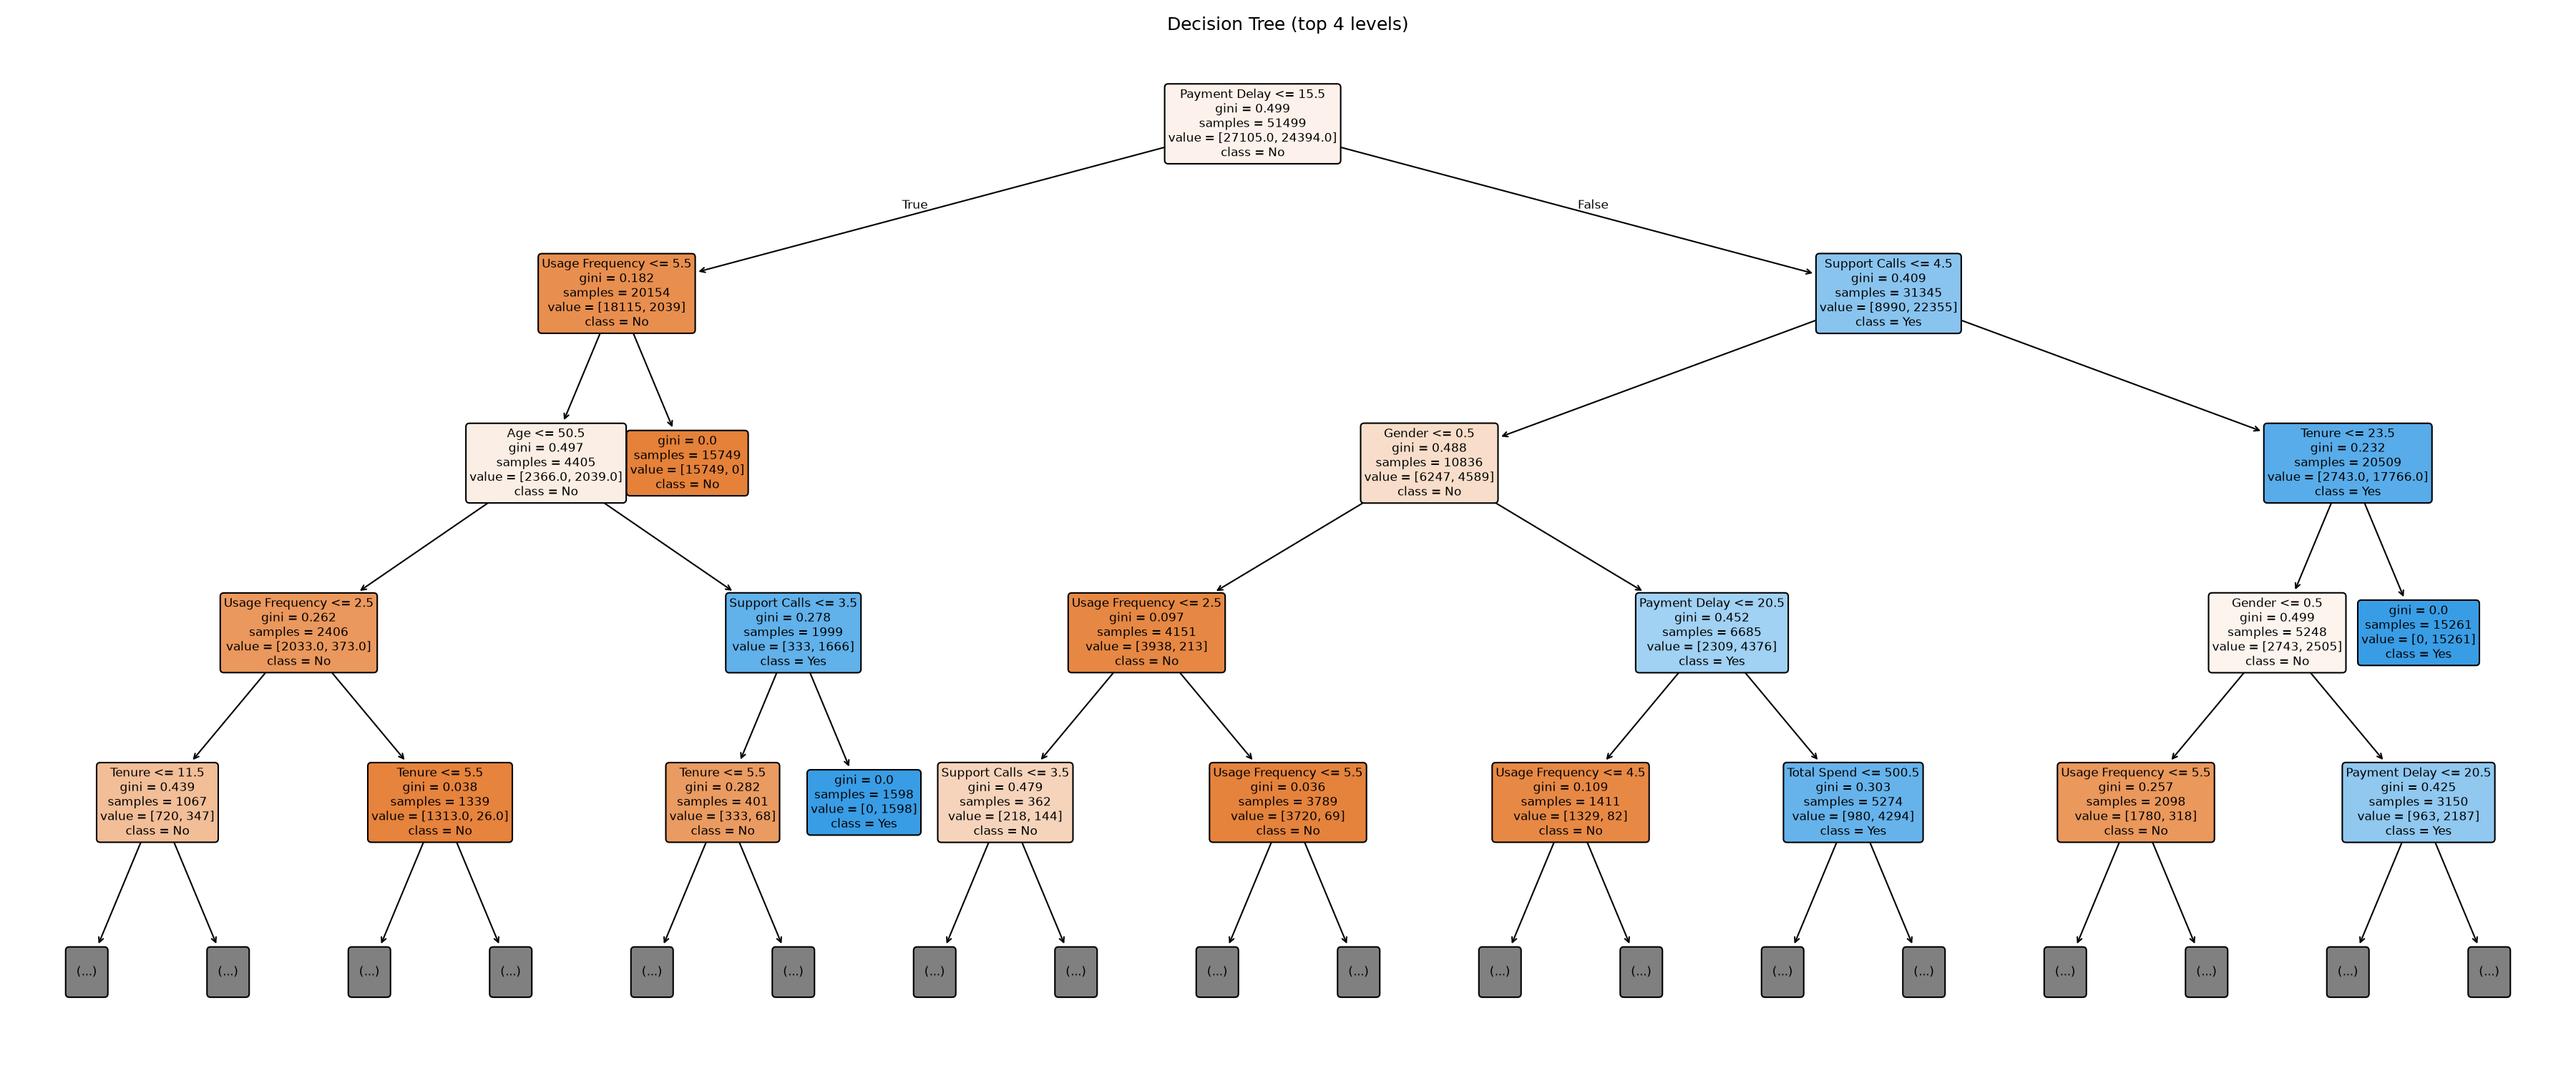
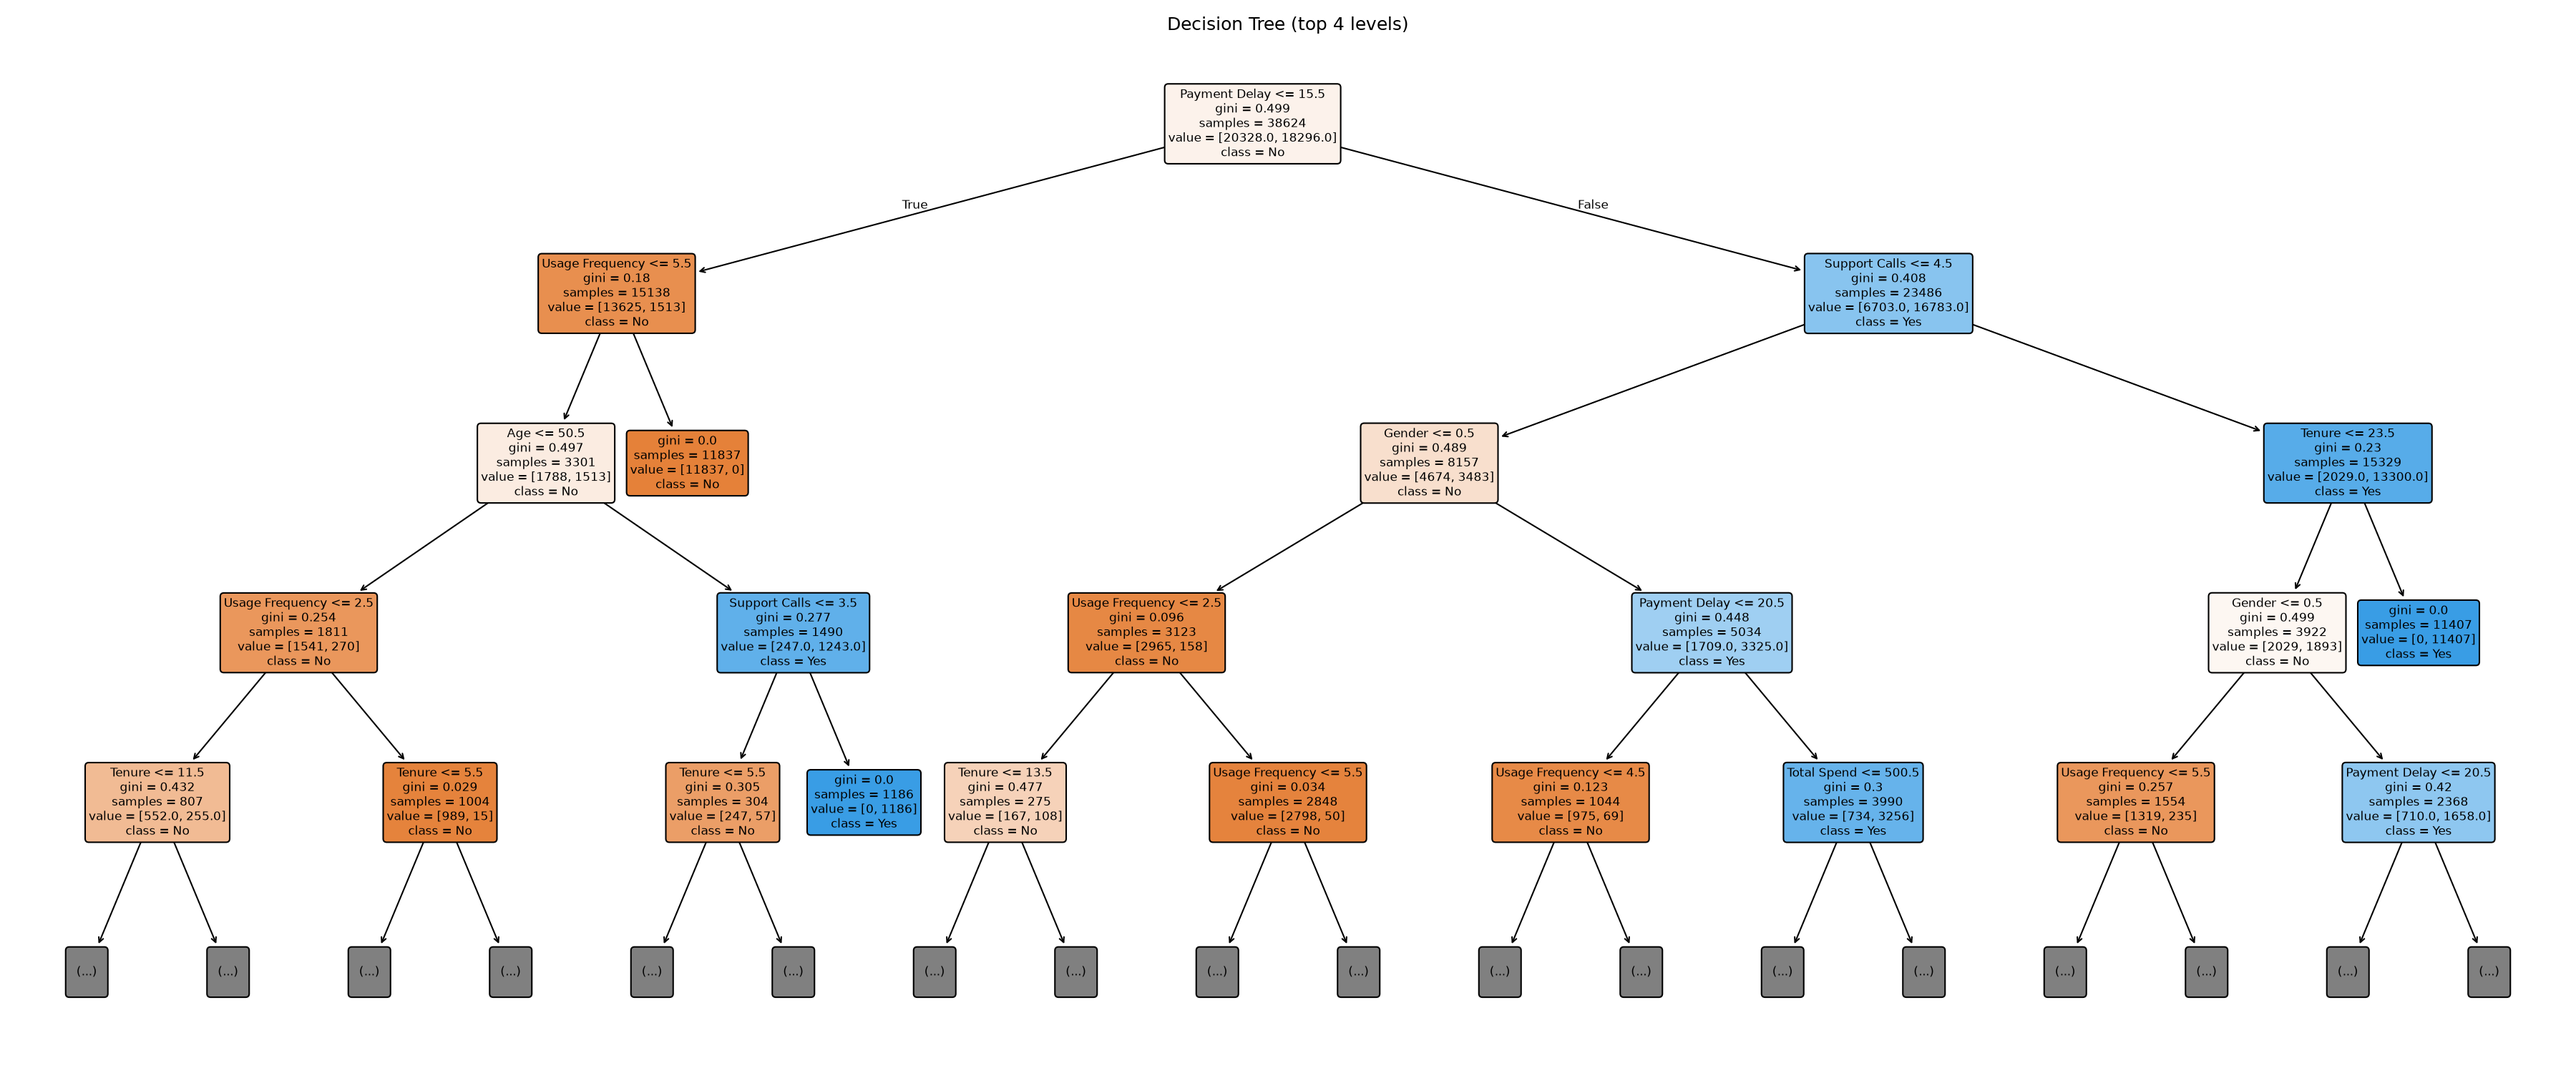
Update model split and config

diff --git a/03_decision_tree.py b/03_decision_tree.py
@@ -23,7 +23,15 @@ from sklearn.metrics import (
 from sklearn.model_selection import train_test_split
 from sklearn.tree import DecisionTreeClassifier, plot_tree
 
-from config import DATA_CLEANED, OUTPUT_DIR, RANDOM_STATE, TARGET, TEST_SIZE
+from config import (
+    DATA_CLEANED,
+    OUTPUT_DIR,
+    RANDOM_STATE,
+    TARGET,
+    TRAIN_SIZE,
+    VALIDATION_SIZE,
+    TEST_SIZE,
+)
 
 os.makedirs(OUTPUT_DIR, exist_ok=True)
 
@@ -33,20 +41,20 @@ df = pd.read_csv(DATA_CLEANED)
 X = df.drop(columns=[TARGET])
 y = df[TARGET]
 
-# Split into train and temporary data
+# 60% training, 20% validation, 20% testing
 X_train, X_temp, y_train, y_temp = train_test_split(
     X,
     y,
-    test_size=TEST_SIZE,
+    train_size=TRAIN_SIZE,
     random_state=RANDOM_STATE,
     stratify=y,
 )
 
-# Split temporary data into validation and final test sets
+validation_test_ratio = VALIDATION_SIZE / (VALIDATION_SIZE + TEST_SIZE)
 X_val, X_test, y_val, y_test = train_test_split(
     X_temp,
     y_temp,
-    test_size=0.5,
+    test_size=1 - validation_test_ratio,
     random_state=RANDOM_STATE,
     stratify=y_temp,
 )

diff --git a/04_random_forest.py b/04_random_forest.py
@@ -23,7 +23,15 @@ from sklearn.metrics import (
 )
 from sklearn.model_selection import train_test_split
 
-from config import DATA_CLEANED, OUTPUT_DIR, RANDOM_STATE, TARGET, TEST_SIZE
+from config import (
+    DATA_CLEANED,
+    OUTPUT_DIR,
+    RANDOM_STATE,
+    TARGET,
+    TRAIN_SIZE,
+    VALIDATION_SIZE,
+    TEST_SIZE,
+)
 
 os.makedirs(OUTPUT_DIR, exist_ok=True)
 
@@ -32,20 +40,20 @@ df = pd.read_csv(DATA_CLEANED)
 X = df.drop(columns=[TARGET])
 y = df[TARGET]
 
-# Split into train and temporary data
+# 60% training, 20% validation, 20% testing
 X_train, X_temp, y_train, y_temp = train_test_split(
     X,
     y,
-    test_size=TEST_SIZE,
+    train_size=TRAIN_SIZE,
     random_state=RANDOM_STATE,
     stratify=y,
 )
 
-# Split temporary data into validation and final test sets
+validation_test_ratio = VALIDATION_SIZE / (VALIDATION_SIZE + TEST_SIZE)
 X_val, X_test, y_val, y_test = train_test_split(
     X_temp,
     y_temp,
-    test_size=0.5,
+    test_size=1 - validation_test_ratio,
     random_state=RANDOM_STATE,
     stratify=y_temp,
 )

diff --git a/config.py b/config.py
@@ -18,6 +18,8 @@ TARGET_COLUMN = TARGET
 ID_COLUMN = "CustomerID"
 
 RANDOM_STATE = 42
+TRAIN_SIZE = 0.6
+VALIDATION_SIZE = 0.2
 TEST_SIZE = 0.2
 
 TEXT_COLUMNS = [
